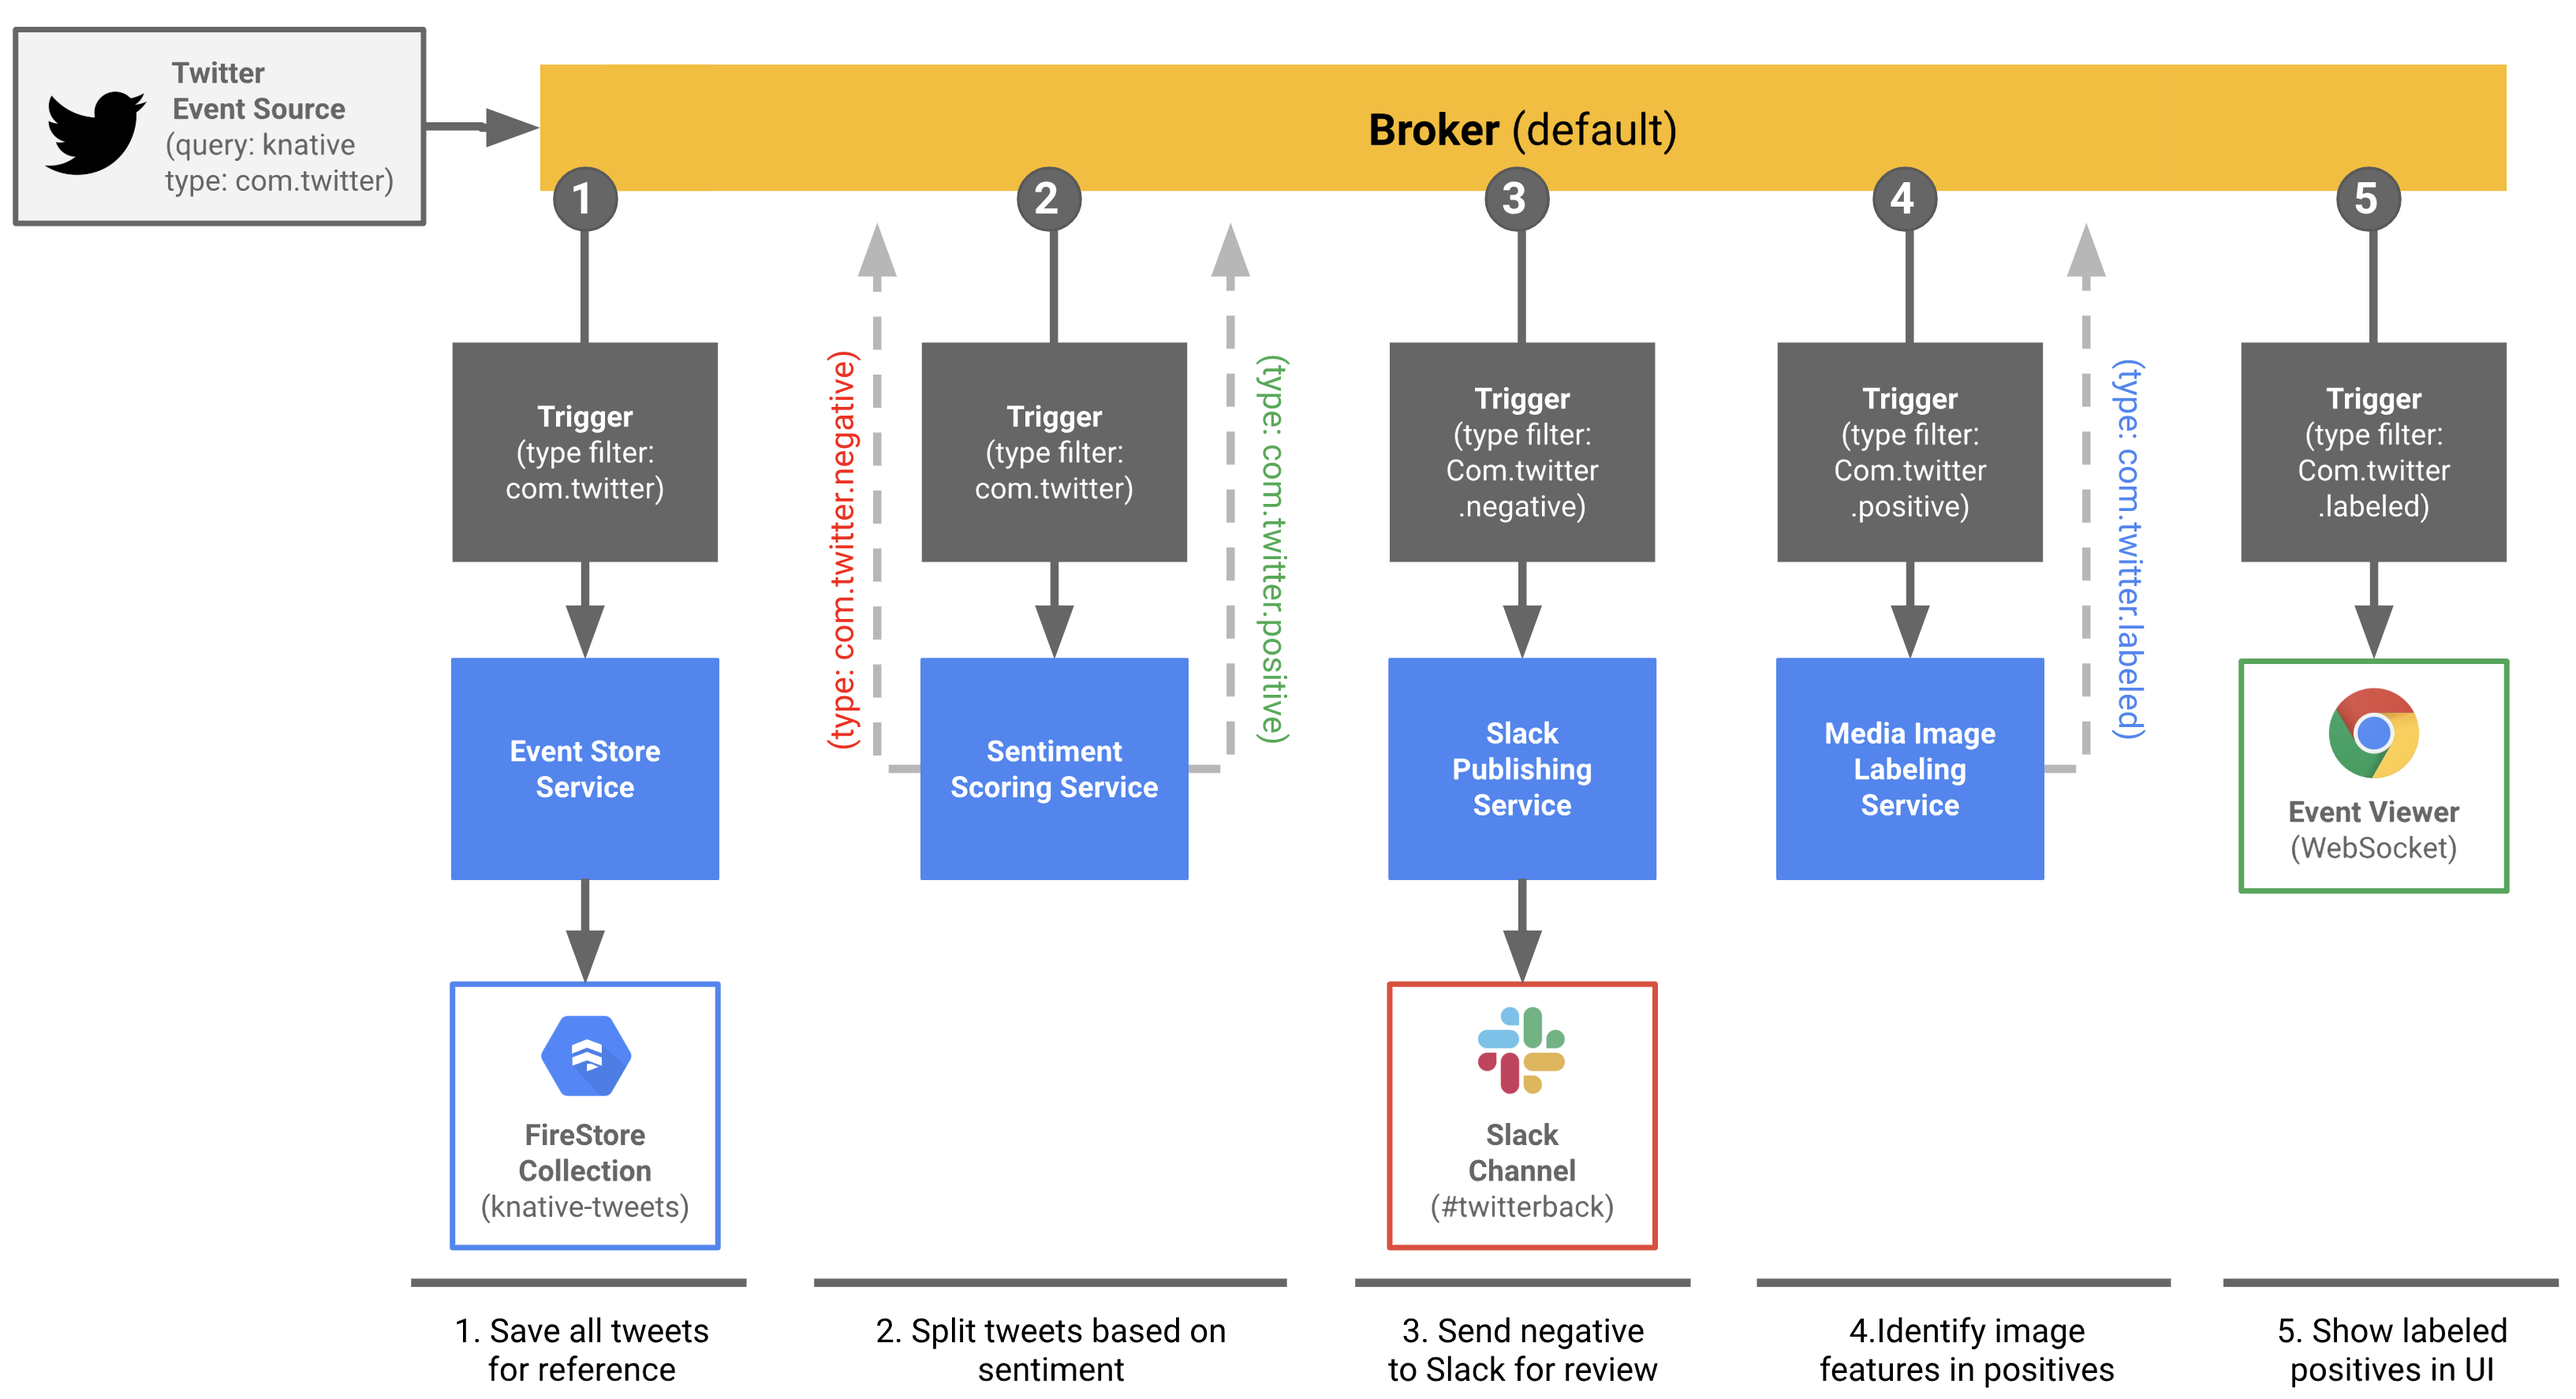
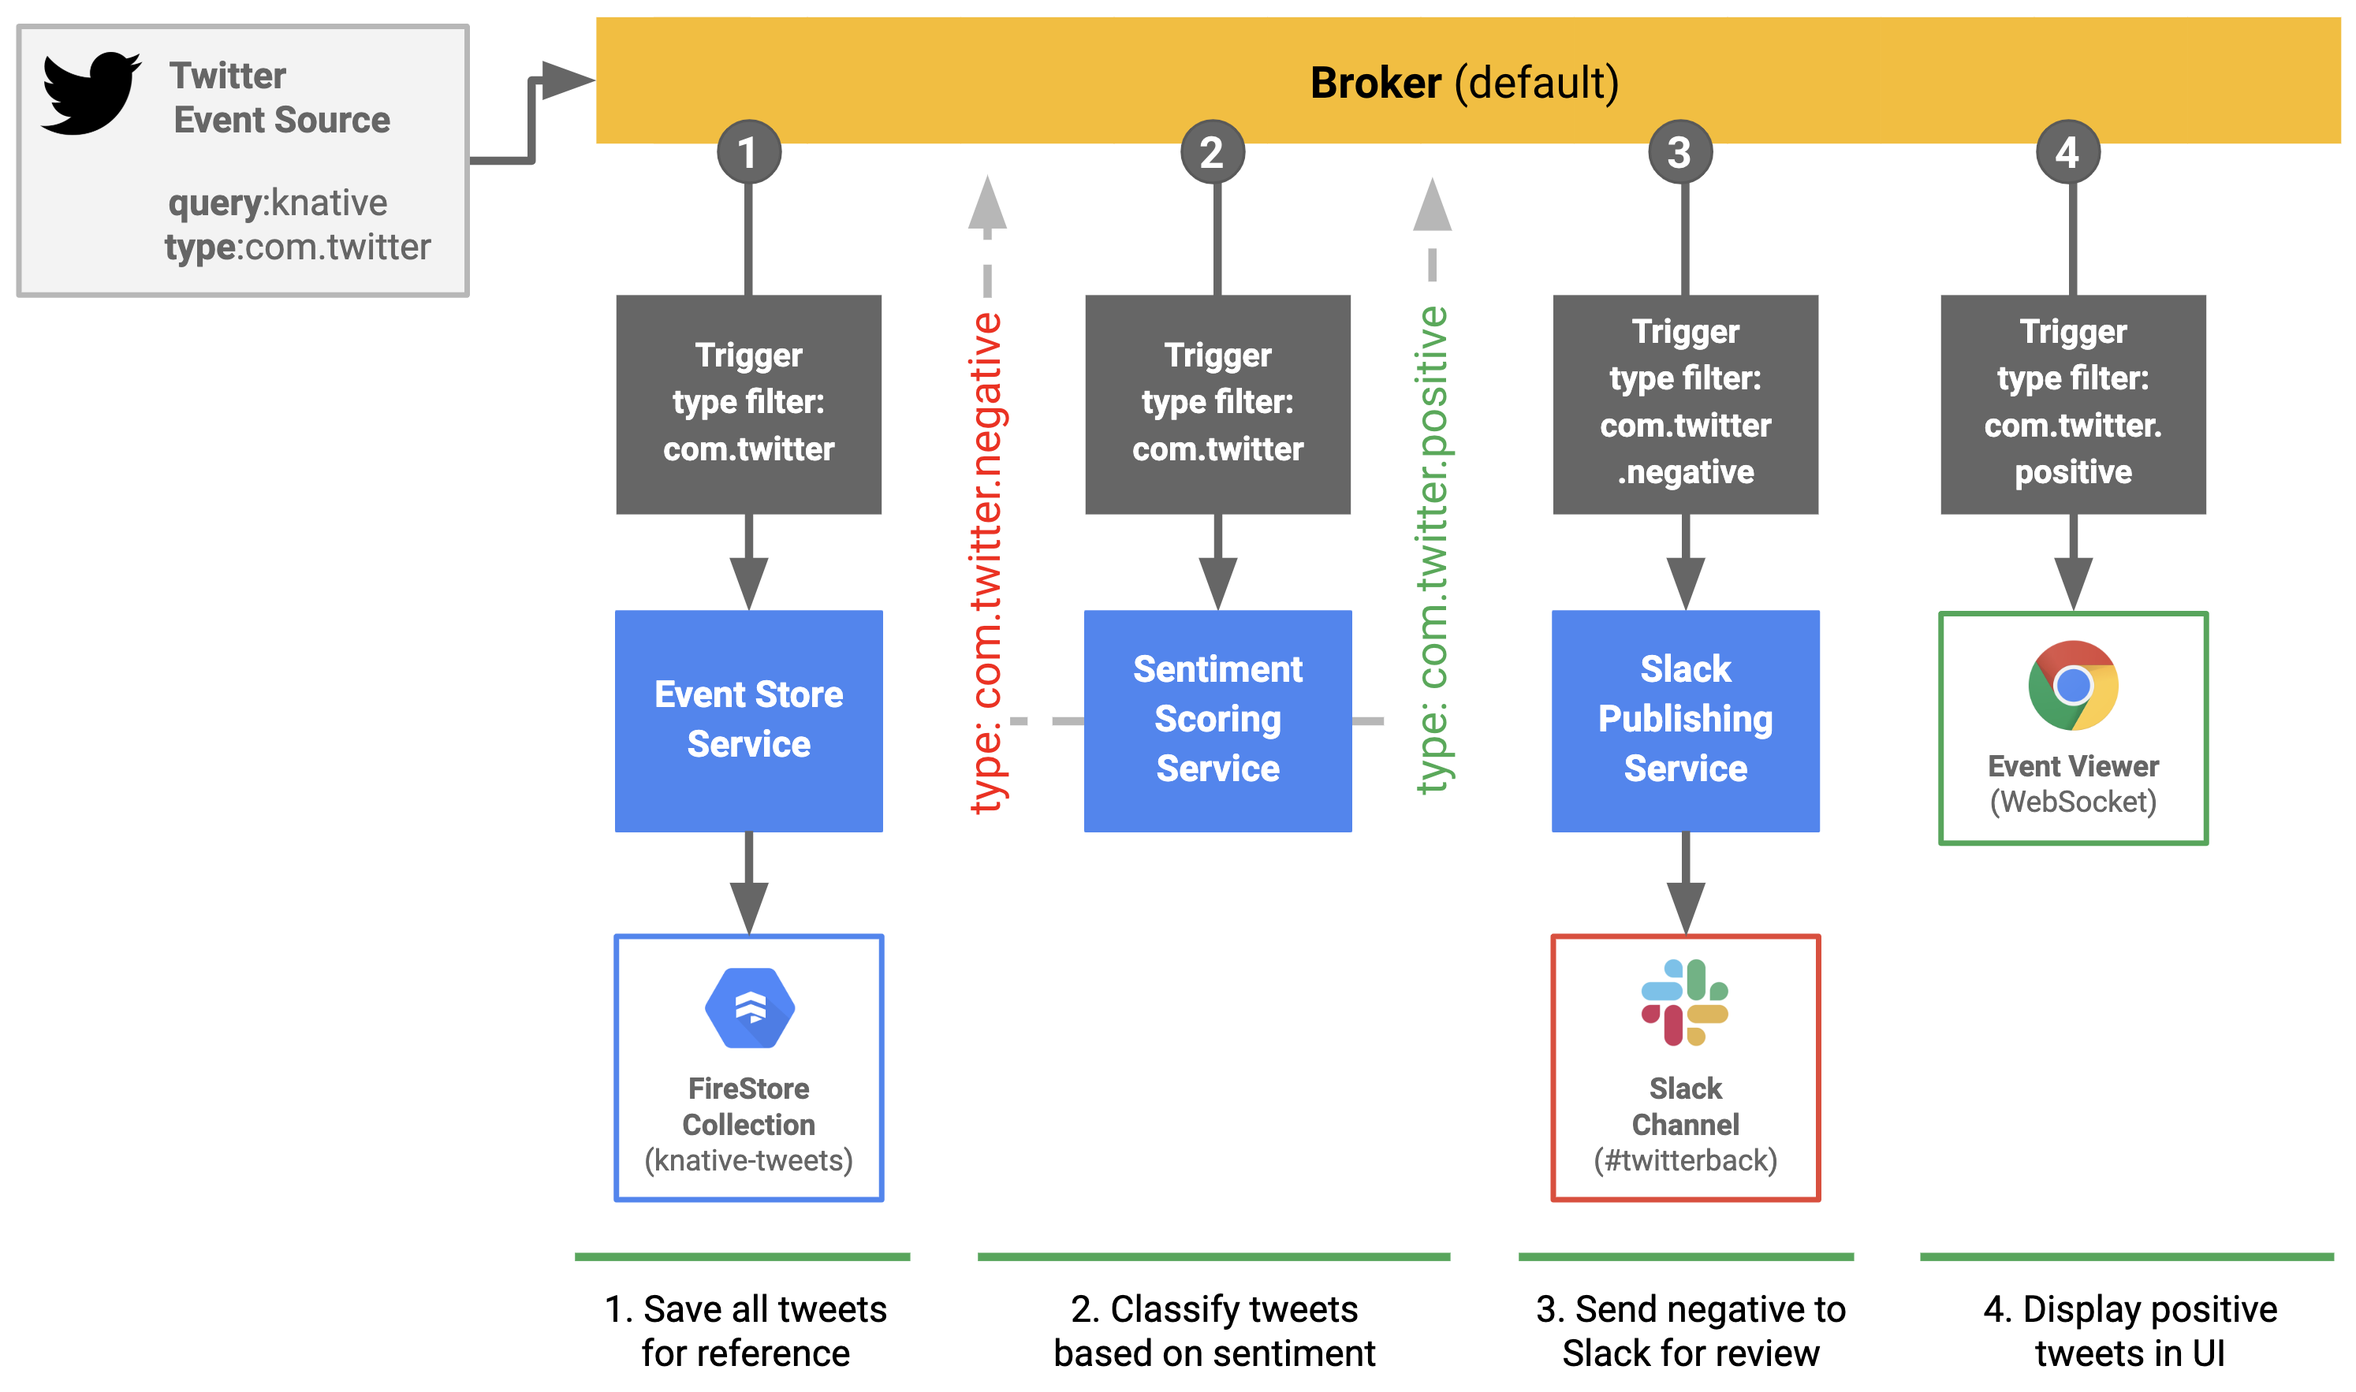
Updated event store

diff --git a/eventing-twitter-firebase/README.md b/eventing-twitter-firebase/README.md
@@ -52,17 +52,24 @@ NAME                                                          AGE
 containersource.sources.eventing.knative.dev/twitter-source   1m
 ```
 
-### Service
+You can also right away see if the there are some tweets matching your search
 
-The only think in deploying the Knative service which will persist tweets returned by event source is the `GCP_PROJECT_ID` variable in `config/store-service.yaml`. While the use of project ID has generally been deprecated, the Firestore client still requires it to create client.
-
-```yaml
-env:
-  - name: GCP_PROJECT_ID
-    value: "s9-demo"
+```shell
+kubectl logs -l eventing.knative.dev/source=twitter-source -n demo -c source
 ```
 
-Once you are done editing `config/store-service.yaml` file, you can apply it to your Knative cluster the same way you configured the above event source.
+Should return
+
+```shell
+2019/07/11 13:23:14 Got tweet:     1149308143958134784
+2019/07/11 13:23:14 Posting tweet: 1149308143958134784
+2019/07/11 13:23:14 Got tweet:     1149308145359118336
+2019/07/11 13:23:14 Posting tweet: 1149308145359118336
+```
+
+### Store Service
+
+The store service will persist tweets into collection defined in the `config/store-service.yaml` (`knative-tweets` by default). To deploy this service apply it to your Knative cluster the same way you configured the above event source.
 
 
 ```shell
@@ -82,27 +89,9 @@ NAME                                          READY     STATUS    RESTARTS   AGE
 eventstore-0000n-deployment-5645f48b4d-mb24j  3/3       Running   0          10s
 ```
 
-### Trigger
-
 Now that you have both the event source and service configured you can wire these two with simple trigger. You should not have to edit the `config/store-trigger.yaml` file unless you made some naming changes above.
 
 Two things to point here, were are using `type: com.twitter` filter to send to our `eventstore` service only the events of twitter type. We also define the target service here by defiing its reference in the `subscriber` portion of trigger.
-
-```yaml
-apiVersion: eventing.knative.dev/v1alpha1
-kind: Trigger
-metadata:
-  name: twitter-events-trigger
-spec:
-  filter:
-    sourceAndType:
-      type: com.twitter
-  subscriber:
-    ref:
-      apiVersion: serving.knative.dev/v1alpha1
-      kind: Service
-      name: eventstore
-```
 
 To create a trigger run:
 
